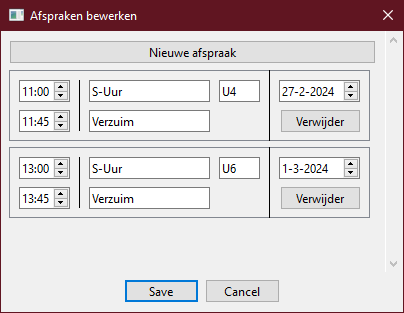
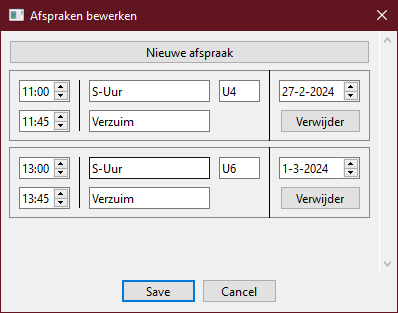
Fix the small width difference

diff --git a/rooster_epd_ui.py b/rooster_epd_ui.py
@@ -277,25 +277,25 @@ class Ui_Rooster_epd_afspraken(object):
     def setupUi(self, Rooster_epd_afspraken):
         if not Rooster_epd_afspraken.objectName():
             Rooster_epd_afspraken.setObjectName(u"Rooster_epd_afspraken")
-        Rooster_epd_afspraken.resize(402, 281)
-        Rooster_epd_afspraken.setMinimumSize(QSize(402, 171))
-        Rooster_epd_afspraken.setMaximumSize(QSize(402, 16777215))
+        Rooster_epd_afspraken.resize(396, 281)
+        Rooster_epd_afspraken.setMinimumSize(QSize(396, 171))
+        Rooster_epd_afspraken.setMaximumSize(QSize(396, 16777215))
         self.buttonBox = QDialogButtonBox(Rooster_epd_afspraken)
         self.buttonBox.setObjectName(u"buttonBox")
-        self.buttonBox.setGeometry(QRect(0, 240, 401, 41))
+        self.buttonBox.setGeometry(QRect(0, 240, 396, 41))
         self.buttonBox.setOrientation(Qt.Horizontal)
         self.buttonBox.setStandardButtons(QDialogButtonBox.Cancel|QDialogButtonBox.Save)
         self.buttonBox.setCenterButtons(True)
         self.scrollArea = QScrollArea(Rooster_epd_afspraken)
         self.scrollArea.setObjectName(u"scrollArea")
-        self.scrollArea.setGeometry(QRect(-1, 0, 402, 241))
+        self.scrollArea.setGeometry(QRect(-1, 0, 396, 241))
         self.scrollArea.setFrameShape(QFrame.NoFrame)
         self.scrollArea.setVerticalScrollBarPolicy(Qt.ScrollBarAlwaysOn)
         self.scrollArea.setHorizontalScrollBarPolicy(Qt.ScrollBarAlwaysOff)
         self.scrollArea.setWidgetResizable(True)
         self.scrollAreaWidgetContents = QWidget()
         self.scrollAreaWidgetContents.setObjectName(u"scrollAreaWidgetContents")
-        self.scrollAreaWidgetContents.setGeometry(QRect(0, 0, 385, 241))
+        self.scrollAreaWidgetContents.setGeometry(QRect(0, 0, 379, 241))
         self.verticalLayout = QVBoxLayout(self.scrollAreaWidgetContents)
         self.verticalLayout.setObjectName(u"verticalLayout")
         self.nieuwButton = QPushButton(self.scrollAreaWidgetContents)
